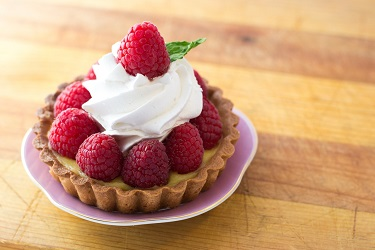
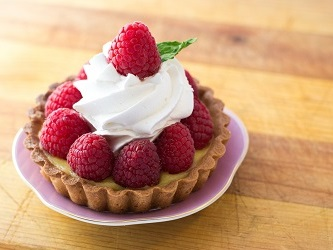
Add product detail page and resize images consistently

diff --git a/products/templates/products/products.html b/products/templates/products/products.html
@@ -2,31 +2,67 @@
 {% load static %}
 
 {% block page_header %}
-    <div class="container header-container">
-        <div class="row">
-            <div class="col"></div>
-        </div>
-    </div>
 {% endblock %}
 
 {% block content %}
     <div class="container-fluid">
         <div class="row">
             <div class="col text-center mt-3">
-                <h2 class="logo-font">Food Items</h2>
+                <h2 class="logo-font">Our Menu</h2>
             </div>
         </div>
+        <!-- Code taken from Code Institute Course - Boutique Ado walkthrough -->
         <div class="row">
-            {% for product in products %}
-            <div class="col">
-                    {{ product.name }}
-                    {{ product.product_code }}
-                    {{ product.description }}
-                    {{ product.category }}
-                    {{ product.price }}
-                    <img src="/media/{{ product.image }}">
+            <div class="product-container col-10 offset-1">
+                <div class="row mt-1 mb-2"></div>
+                <div class="row">
+                    {% for product in products %}
+                        <div class="col-sm-6 col-md-6 col-lg-4 col-xl-3">
+                            <div class="card h-100 border-0">
+                                {% if product.image %}
+                                <a href="{% url 'product_detail' product.id %}">
+                                    <img class="card-img-top img-fluid" src="{{ product.image.url }}" alt="{{ product.name }}">
+                                </a>
+                                {% else %}
+                                <a href={% url 'product_detail' product.id %}"">
+                                    <img class="card-img-top img-fluid" src="{{ MEDIA_URL }}noimage.png" alt="{{ product.name }}">
+                                </a>
+                                {% endif %}
+                                <div class="card-body pb-0">
+                                    <p class="mb-0"><a href="{% url 'product_detail' product.id %}" class="text-reset">{{ product.name }}</a></p>
+                                </div>
+                                <div class="card-footer bg-white pt-0 border-0 text-left">
+                                    <div class="row">
+                                        <div class="col">
+                                            <p class="lead mb-0 text-left font-weight-bold">£{{ product.price }}</p>
+                                        </div>
+                                    </div>
+                                </div>
+                            </div>
+                        </div>
+                        {% if forloop.counter|divisibleby:1 %}
+                            <div class="col-12 d-sm-none mb-5">
+                                <hr>
+                            </div>
+                        {% endif %}                        
+                        {% if forloop.counter|divisibleby:2 %}
+                            <div class="col-12 d-none d-sm-block d-md-block d-lg-none mb-5">
+                                <hr>
+                            </div>
+                        {% endif %}
+                        {% if forloop.counter|divisibleby:3 %}
+                            <div class="col-12 d-none d-lg-block d-xl-none mb-5">
+                                <hr>
+                            </div>
+                        {% endif %}
+                        {% if forloop.counter|divisibleby:4 %}
+                            <div class="col-12 d-none d-xl-block mb-5">
+                                <hr>
+                            </div>
+                        {% endif %}
+                    {% endfor %}
+                </div>
             </div>
-            {% endfor %}
         </div>
     </div>
 {% endblock %}

diff --git a/products/templates/products/product_detail.html b/products/templates/products/product_detail.html
@@ -1,0 +1,32 @@
+{% extends "base.html" %}
+{% load static %}
+
+{% block page_header %}
+{% endblock %}
+
+{% block content %}
+<div class="container-fluid">
+    <div class="row">
+        <div class="col-12 col-md-6 col-lg-4 offset-lg-2">
+            <div class="image-container my-5">
+                {% if product.image %}
+                    <a href="{{ product.image.url }}" target="_blank">
+                        <img class="card-img-top img-fluid" src="{{ product.image.url }}" alt="{{ product.name }}">
+                    </a>
+                    {% else %}
+                    <a href="">
+                        <img class="card-img-top img-fluid" src="{{ MEDIA_URL }}noimage.png" alt="{{ product.name }}">
+                    </a>
+                {% endif %}
+            </div>
+        </div>
+        <div class="col-12 col-md-6 col-lg-4">
+            <div class="product-details-container mb-5 mt-md-5">
+                <p class="mb-0"><strong>{{ product.name }}</strong></p>
+                <p class="lead mb-0 text-left font-weight-bold">£{{ product.price }}</p>
+                <p class="mt-3">{{ product.description }}</p>
+            </div>
+        </div>
+    </div>
+</div>
+{% endblock %}

diff --git a/templates/base.html b/templates/base.html
@@ -52,7 +52,7 @@
             </ul>
               <ul class="navbar-nav ml-auto">    
               <li class="nav-item">
-              <a class="nav-link" href="#">Home</a>
+              <a class="nav-link" href="{% url 'home' %}">Home</a>
             </li>
             <li class="nav-item">
               <a class="nav-link" href="#">Link</a>
@@ -62,7 +62,7 @@
                 Food Menu
               </a>
               <div class="dropdown-menu" aria-labelledby="navbarDropdown">
-                <a class="dropdown-item" href="#">All Menu Items</a>
+                <a class="dropdown-item" href="{% url 'products' %}">All Menu Items</a>
                 <div class="dropdown-divider"></div>
                 <a class="dropdown-item" href="#">Starters</a>
                 <a class="dropdown-item" href="#">Mains</a>

diff --git a/products/views.py b/products/views.py
@@ -1,9 +1,10 @@
 from django.shortcuts import render
+from django.shortcuts import get_object_or_404
 from .models import Product
 
 
 def all_products(request):
-    """ A view to show all products, including sorting and search queries """
+    """ A view to show all food items, including sorting and search queries """
 
     products = Product.objects.all()
 
@@ -12,3 +13,15 @@ def all_products(request):
     }
 
     return render(request, 'products/products.html', context)
+
+
+def product_detail(request, product_id):
+    """ A view to show details of a specific food item """
+
+    product = get_object_or_404(Product, pk=product_id)
+
+    context = {
+        'product': product,
+    }
+
+    return render(request, 'products/product_detail.html', context)

diff --git a/products/urls.py b/products/urls.py
@@ -2,5 +2,6 @@ from django.urls import path
 from . import views
 
 urlpatterns = [
-    path('', views.all_products, name='products')
+    path('', views.all_products, name='products'),
+    path('<product_id>', views.product_detail, name='product_detail'),
 ]
